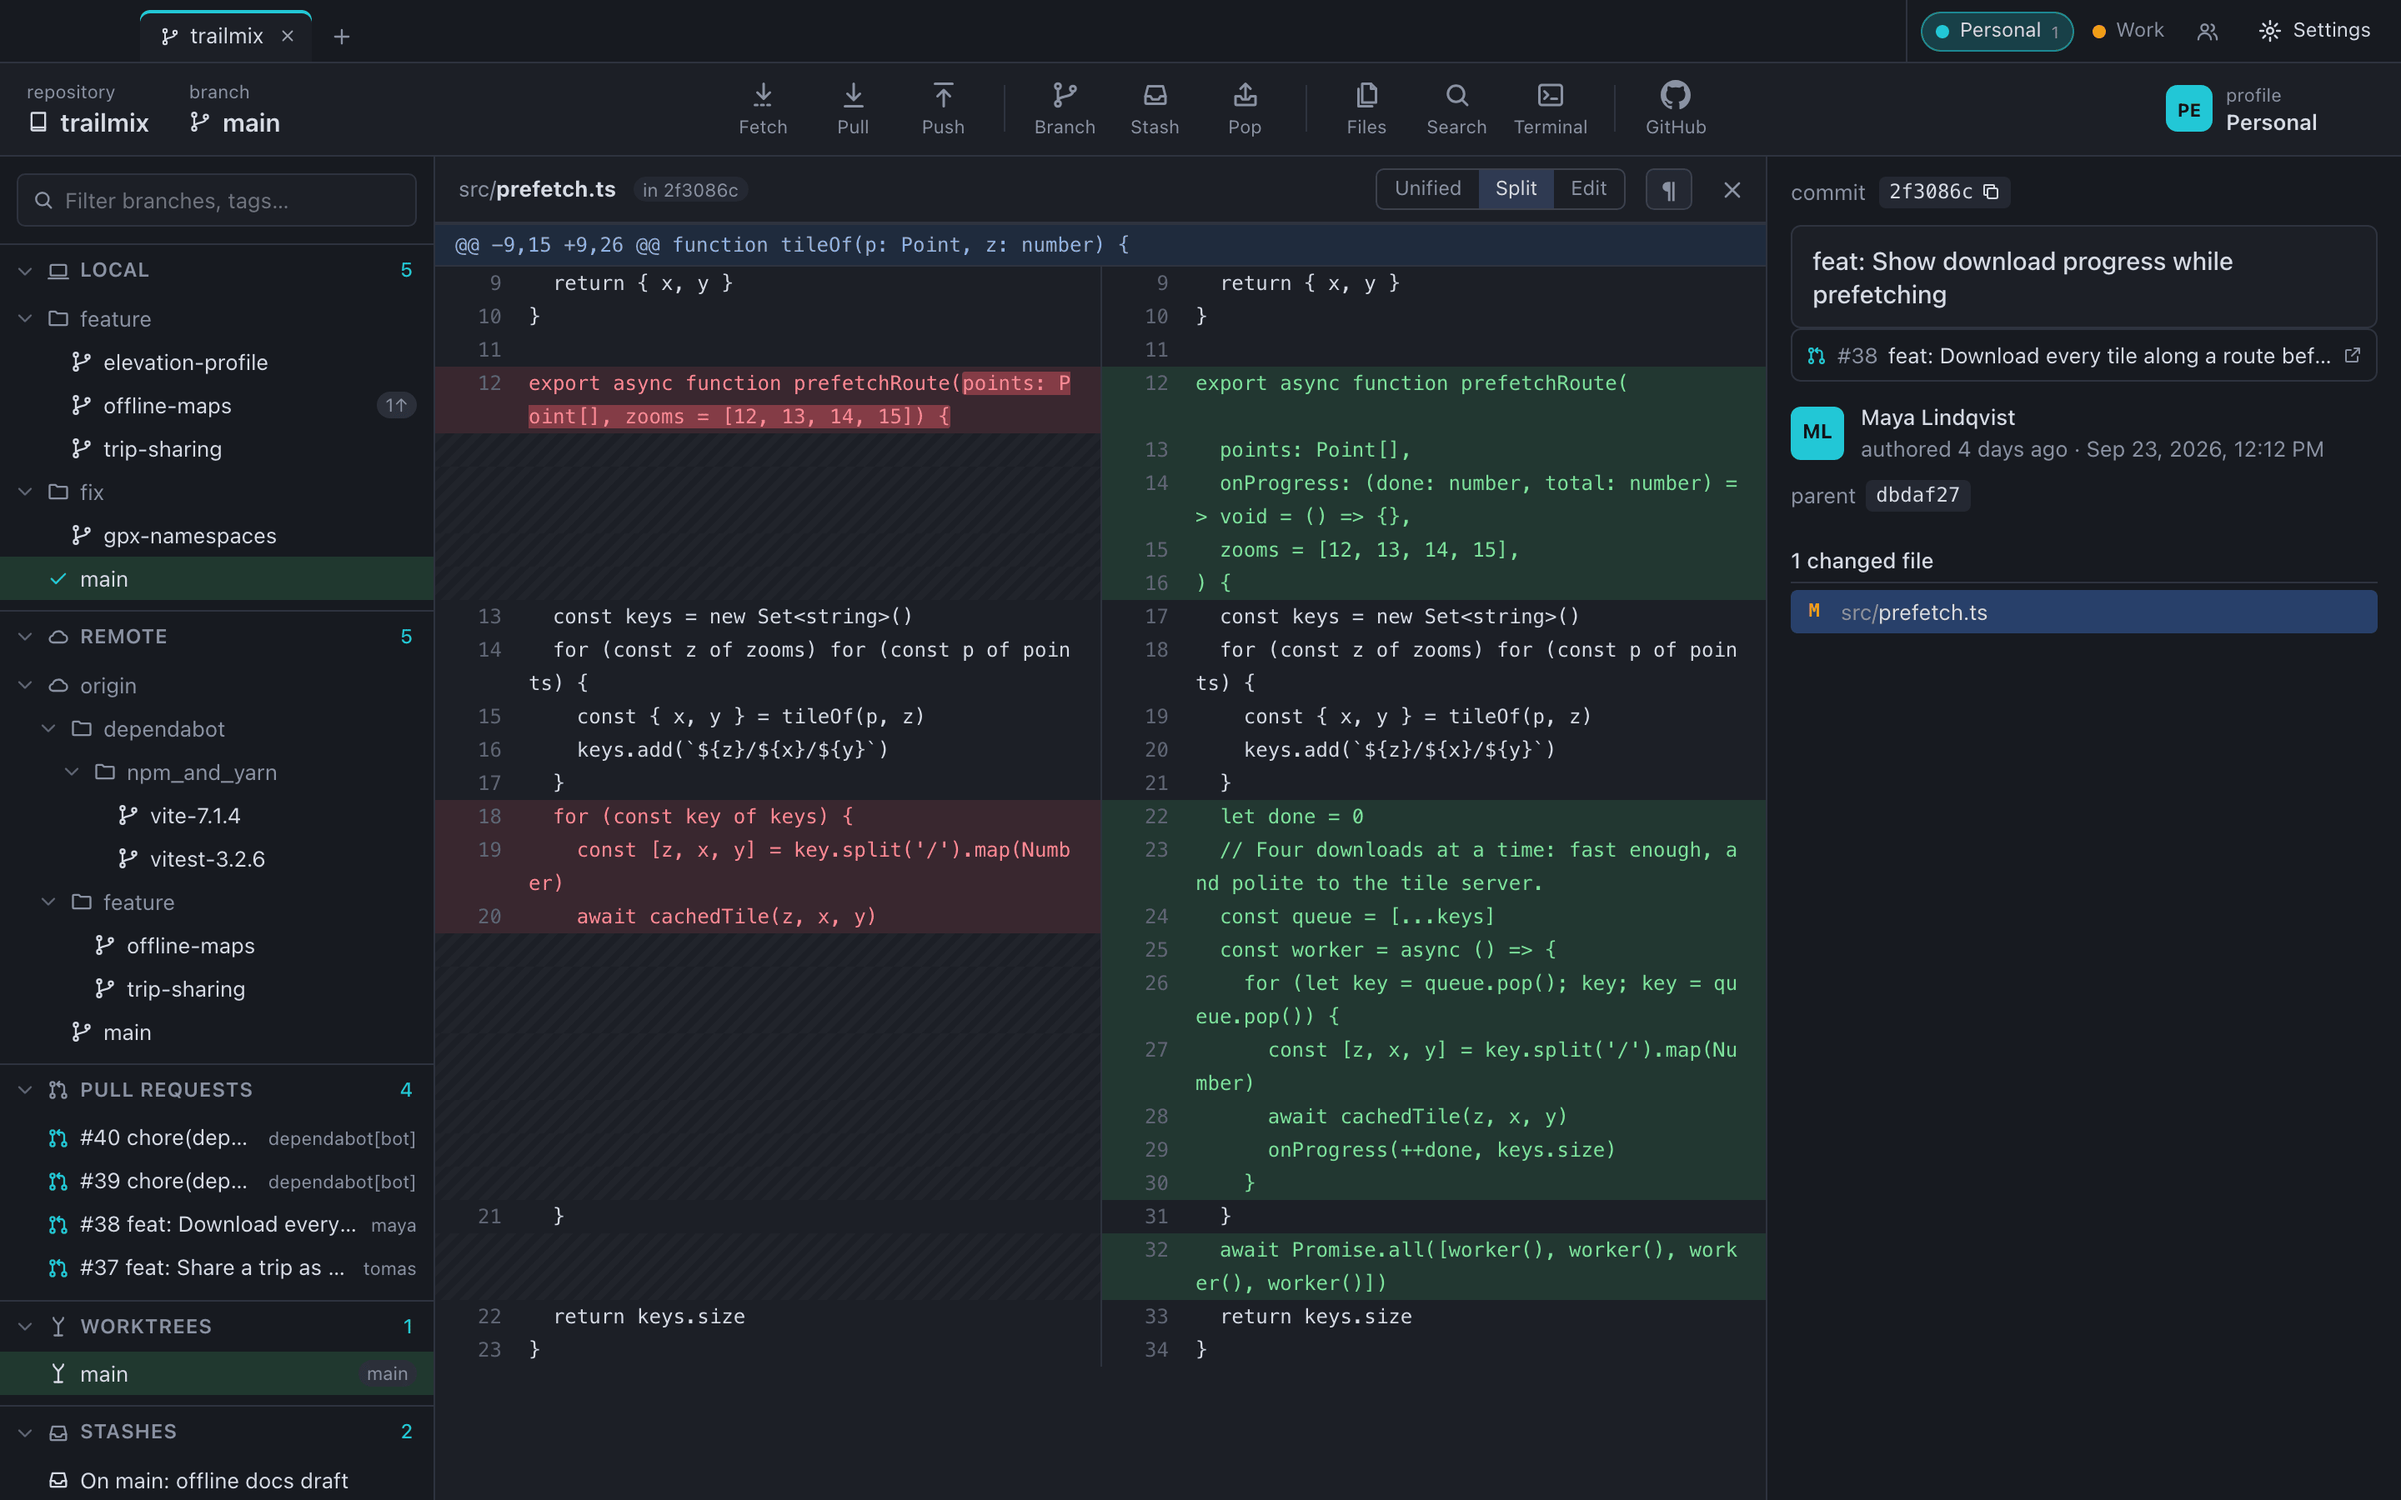
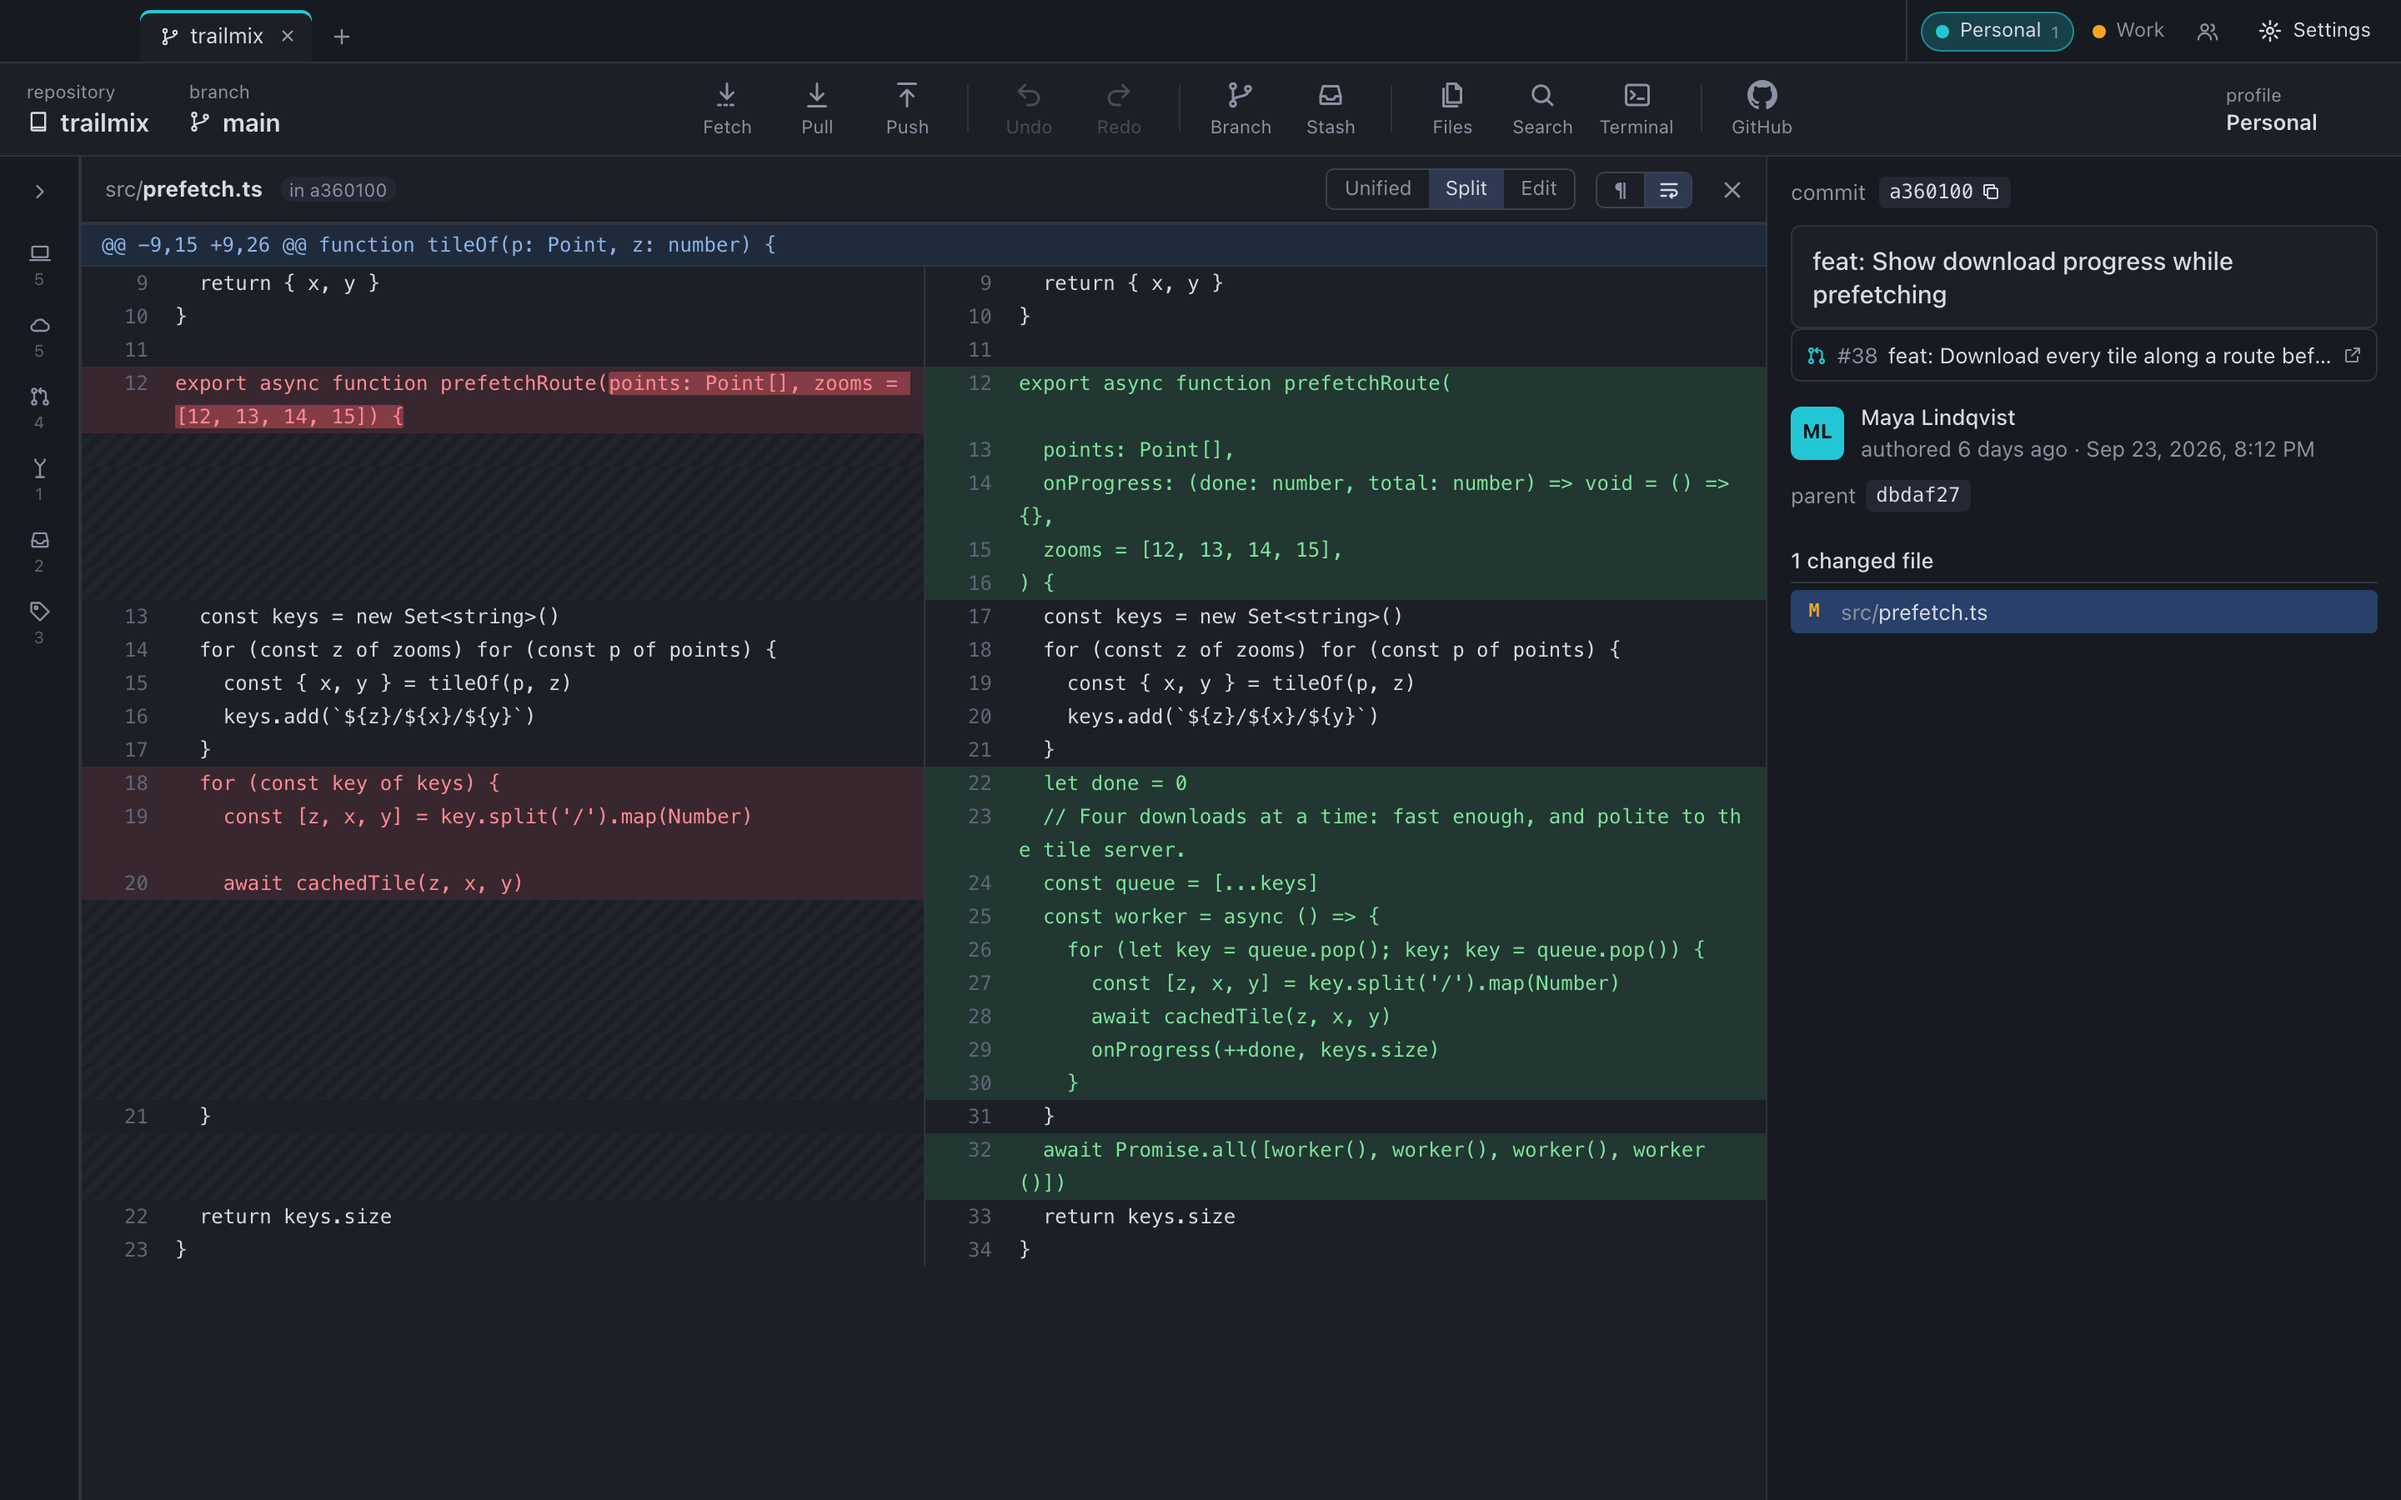
Update screenshots and features for 1.6
New screenshots show the current toolbar with Undo and Redo, squashing
commits and a tag's local and remote menu. The feature list adds undo and
redo, squash, remote tags and applying patches, and Linux packages join
the install instructions.

diff --git a/README.md b/README.md
@@ -9,8 +9,8 @@
 > though: as I said, this is a hobby project. Note that this package doesn't include Git itself; you
 > need to have it installed.
 
-A fast desktop Git client for macOS and Windows. It runs your own `git`, so your config, hooks,
-credential helpers, signing and worktrees behave exactly as they do in the terminal.
+A fast desktop Git client for macOS, Windows and Linux. It runs your own `git`, so your config,
+hooks, credential helpers, signing and worktrees behave exactly as they do in the terminal.
 
 ![The commit graph with branches, pull requests and a commit's details](screenshots/graph.png)
 
@@ -36,6 +36,9 @@ Developer ID, so macOS blocks the first launch: open System Settings → Privacy
 **Windows:** run the `-setup.exe` (or the `.msi`). The installer is not code-signed, so SmartScreen
 may warn: choose **More info → Run anyway**.
 
+**Linux:** install the `.deb` (Debian, Ubuntu) or `.rpm` (Fedora, openSUSE), or run the `.AppImage`.
+Each comes for x86-64 (`amd64`/`x86_64`) and ARM64 (`arm64`/`aarch64`).
+
 Git must be installed; the app uses your own git.
 
 ## Features
@@ -52,9 +55,13 @@ Git must be installed; the app uses your own git.
 - Hide whitespace-only changes
 - Edit working-tree files right in the app
 - Commit, amend, and reword earlier commits on the current branch
+- Squash consecutive commits: select them with ⌘-click or ⇧-click
+- Apply patch files, as working-tree changes or as the commits of a `git format-patch` file
 
 **Branches and merging**
 - Create, rename and delete branches; merge, rebase, cherry-pick, revert and reset
+- Undo and redo (⌘Z, ⇧⌘Z) commits, checkouts, merges, rebases, resets, squashes and more
+- See which remotes have each tag; push a tag, or delete it locally or from a remote
 - Resolve merge conflicts in a merge editor, one conflict at a time
 - Stash, apply, pop, drop and rename stashes
 - Create and open worktrees, each in its own tab
@@ -67,7 +74,7 @@ Git must be installed; the app uses your own git.
 **Profiles**
 - Keep work and personal identities apart: author, SSH key, commit signing and HTTPS tokens
 - Repositories pick their profile by folder or remote URL; each profile has its own tabs
-- Tokens are stored in the macOS Keychain or Windows Credential Manager
+- Tokens are stored in the macOS Keychain, Windows Credential Manager or the Linux Secret Service
 
 **And**
 - A terminal in the repository, one keystroke away (⌃\`)
@@ -78,6 +85,14 @@ Git must be installed; the app uses your own git.
 Split diff of a commit, with the exact change within each line highlighted:
 
 ![A commit's diff, side by side](screenshots/diff.png)
+
+Squashing three commits into one:
+
+![Three commits selected, with the squash message form](screenshots/squash.png)
+
+A tag that is both here and on origin, which can be deleted from either:
+
+![A tag's menu with separate local and remote delete](screenshots/tags.png)
 
 Staging changes line by line and writing a commit:
 
